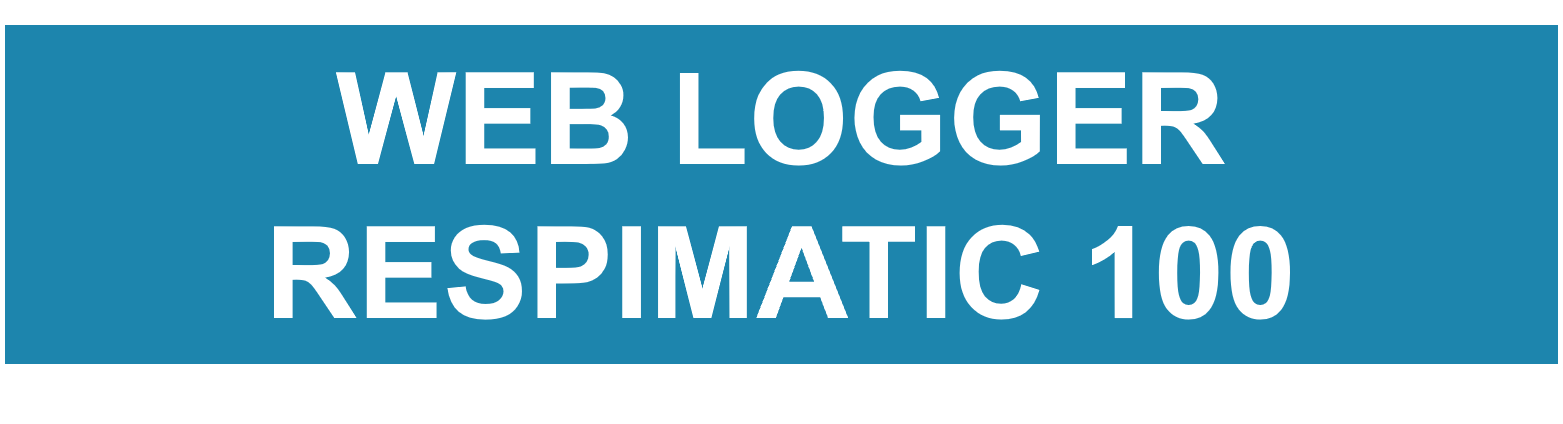
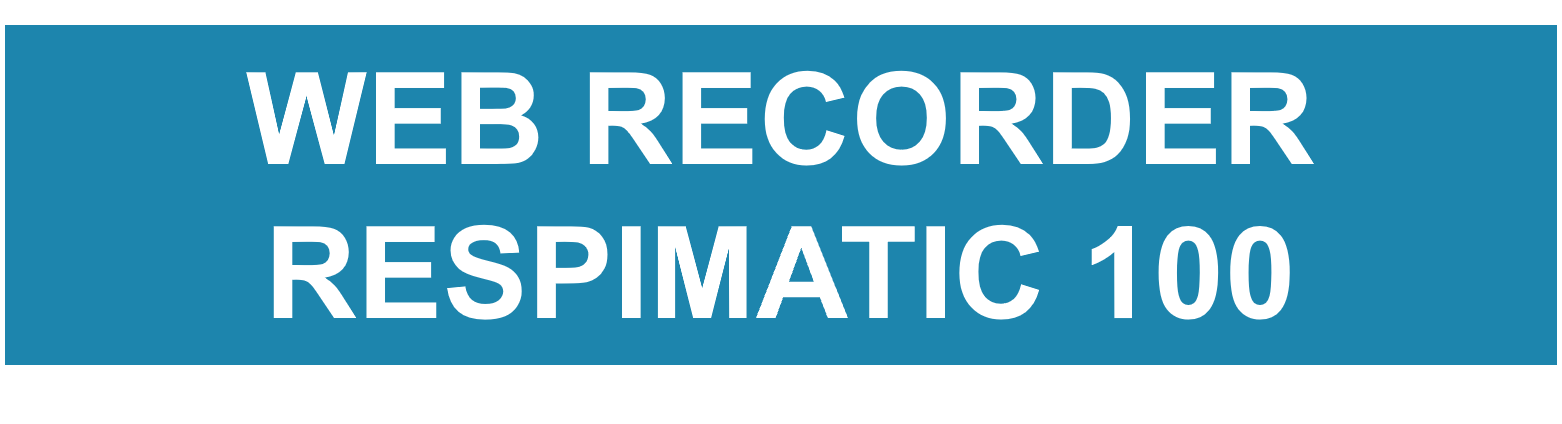
Renamed Logger to Recorder and made it consistent with Analyzer

Changed region(s): [[0.1536, 0.1533, 0.8604, 0.3986], [0.4302, 0.5825, 0.4609, 0.6745]]

diff --git a/logger/respimatic.logger.html b/logger/respimatic.logger.html
@@ -20,12 +20,66 @@
   </head>
   
   <body>
-    <br>
+    <div class="sidebar">
+      
+      <div
+        style="background-color:#0d3e51; color:white; font-size:20px; font-family:verdana;">
+        <center>
+          <p id="logTimeDuration">Session Duration 00:00:00
+          <p id="startTime">Starting Time 00:00:00
+        </center>
+      </div>
+      
+      <center>
+      <button id="btnExit" class="sidebarButton" style="background-color:firebrick" onclick='selectExit()'>STOP & EXIT</button>
+      </center>
+
+
+      <center>
+      <div
+        style="background-color:#0d3e51; color:white; font-size:20px; font-family:verdana;">
+	<br>
+	<br><br>
+	<div id="btnNewSessionDiv">
+	  <br>
+        <button id="btnNewSessionDiv" class="sidebarButton"
+              onclick='createNewDb()'>Start New Session</button>
+	</div>
+
+        <div id="btnStartLogDiv">
+	<br><br>
+	<br><br>
+        <button id="btnStartLog" class="sidebarButton" onclick='startLog()'>Resume
+              Recording</button>
+        </div>
+	  `
+        <div id="btnPauseLogDiv">
+	<br>
+	<br><br>
+        <button id="btnPauseLog" class="sidebarButton" onclick='pauseLog()'>Pause
+              Recording</button>
+        </div>
+
+        <div id="btnDeleteDiv">
+	<br><br>
+	<br><br>
+        <button id="btnDeleteAll"class="sidebarButton" onclick='deleteAllDbs()'>Delete All 
+	   Sessions</button>
+	 <br><br><br><br><br>
+	</div>
+
+      </div>
+      </center>
+      
+    </div>
+    
+    <div class="body-pane">
+    
     <center>
       <img src="img/logger-title-logos.png" alt="Title" width="620"
-        height="150">
+        height="140">
       <h1 id='SysUid'
-        style="background-color:#0d3e51; color:white;font-size:2em; font-family:verdana;">
+        style="background-color:#0d3e51; color:white;font-size:1.5em ; font-family:verdana;">
       </h1>
       <div class="row">
         <div class="column">
@@ -33,23 +87,10 @@
             style="background-color:#0d3e51; color:white;font-size:1.5em; font-family:verdana;">
             No Active Session
           <div
-            style="height:600px; line-height:1em; overflow-y:auto; overflow-x:auto; white-space: nowrap; padding:5px; background-color:#0d3e51; color:white; border:4px #1d85ad; font-family: 'Cousine'">
+            style="height:614px; line-height:1em; overflow-y:auto; overflow-x:auto; white-space: nowrap; padding:5px; background-color:#0d3e51; color:white; border:4px #1d85ad; font-family: 'Cousine'">
             <p id=dweetBox style="font-size:8; text-align: left">
           </div>
           
-          <br>
-          <div id="btnNewSessionDiv">
-            <button id="btnNewSession" class="button"
-              onclick='createNewDb()'>START NEW SESSION</button>
-          </div>
-          <div id="btnStartLogDiv">
-            <button id="btnStartLog" class="button" onclick='startLog()'>RESUME
-              SESSION LOG</button>
-          </div>
-          <div id="btnPauseLogDiv">
-            <button id="btnPauseLog" class="button" onclick='pauseLog()'>PAUSE
-              SESSION LOG</button>
-          </div>
         </div>
         
         <div class="column">
@@ -57,21 +98,17 @@
             style="background-color:#0d3e51; color:white;font-size:1.5em; font-family:verdana;">
             All Saved Sessions
           <div
-            style="height:600px; line-height:1em; overflow-y:auto; overflow-x:auto; white-space: nowrap; padding:5px; background-color:#0d3e51; color:white; border:4px #1d85ad; font-family: 'Cousine'">
+            style="height:614px; line-height:1em; overflow-y:auto; overflow-x:auto; white-space: nowrap; padding:5px; background-color:#0d3e51; color:white; border:4px #1d85ad; font-family: 'Cousine'">
             <br>
             <table id='dbTable' className="dbTableStyle"
               style="font-size:20px; width:100%">
             </table>
           </div>
           
-          <br>
-          <div id="btnDeleteDiv">
-            <button class="button" onclick='deleteAllDbs()'>DELETE ALL SAVED
-              SESSIONS</button>
-          </div>
         </div>
         
       </div>
+    </div>
       
     </center>
   </body>

diff --git a/logger/js/respimatic.logger.js b/logger/js/respimatic.logger.js
@@ -3,6 +3,8 @@ var db;
 var dbName;
 var doLog = false;
 
+var firstDweet = true;
+var startDate = new Date();
 var prevContent = {}; 
 var initialState = true;
 var expectErrorMsg = false;
@@ -13,7 +15,7 @@ var l3 = false;
 var l4 = false;
 
 // check for browser capability
-document.title = respimaticUid + " (LOGGER)" ;
+document.title = respimaticUid + " (RECORDER)" ;
 if (!window.indexedDB) {
     alert("IndexedDB not available in your browser.\nSwitch browsers");
 }
@@ -140,6 +142,8 @@ function deleteAllDbs() {
 }
 
 function initState() {
+  firstDweet = true;
+  startDate = new Date();
   prevContent = {}; 
   initialState = true;
   expectErrorMsg = false;
@@ -158,10 +162,6 @@ function createNewDb() {
   var sessionName = document.getElementById('sessionName');
   arr = parseDbName(dbName);
   sessionName.innerHTML = arr[1] + " [" + arr[2] + "]";
-
-  document.getElementById("btnNewSessionDiv").style.display = "none";
-  document.getElementById("btnStartLogDiv").style.display = "none";
-  document.getElementById("btnPauseLogDiv").style.display = "block";
 }
 
 // ///////////////////////////////////////////////////////
@@ -176,6 +176,19 @@ function displayTweet(d) {
 function processDweet(d) {
   if (!doLog) return ;
 
+  if (firstDweet) {
+    firstDweet = false;
+    startDate = d.created;
+
+    elm = document.getElementById("startTime");
+    elm.innerHTML = "Starting Time " + timeToStr(d.created);
+  } else {
+    curDate = d.created;
+    var diff = curDate - startDate;
+
+    elm = document.getElementById("logTimeDuration");
+    elm.innerHTML = "Session Duration " + msToTime(diff);
+  }
   // We already have the UID
   delete d.thing;
 
@@ -267,37 +280,27 @@ function waitForDweets() {
 
 function startLog() {
   if (doLog) return;
+  var heading = document.getElementById("SysUid");
+  heading.innerHTML = "Recording In-Progress for " + respimaticUid;
   doLog = true;
-
-  document.getElementById("btnNewSessionDiv").style.display = "none";
-  document.getElementById("btnStartLogDiv").style.display = "none";
-  document.getElementById("btnPauseLogDiv").style.display = "block";
 }
 
 function pauseLog() {
   if (!doLog) return;
+  var heading = document.getElementById("SysUid");
+  heading.innerHTML = "Recording Paused for " + respimaticUid;
   doLog = false;
-
-  document.getElementById("btnNewSessionDiv").style.display = "block";
-  document.getElementById("btnStartLogDiv").style.display = "block";
-  document.getElementById("btnPauseLogDiv").style.display = "none";
 }
 
 window.onload = function() {
-  var heading = document.getElementById("SysUid");
-  heading.innerHTML = "LOG for " + respimaticUid;
+  startLog();
   listAllDbs();
-
-  document.getElementById("btnNewSessionDiv").style.display = "block";
-  document.getElementById("btnStartLogDiv").style.display = "none";
-  document.getElementById("btnPauseLogDiv").style.display = "none";
-
   waitForDweets();
 }
 
 function selectExit() {
   if (doLog) {
-    if (!confirm("Logging will STOP")) {
+    if (!confirm("Recording will STOP")) {
       return;
     }
   }

diff --git a/analyzer/respimatic.analyzer.html b/analyzer/respimatic.analyzer.html
@@ -105,16 +105,16 @@
         <img src="img/analyzer-title-logos.png" alt="Title" width="620"
           height="140">
         <h1 id='SysUid'
-          style="background-color:#0d3e51; color:white;font-size:1.2em; font-family:verdana;">
+          style="background-color:#0d3e51; color:white;font-size:1.5em; font-family:verdana;">
         </h1>
       </center>
       
       <center>
         <div id="selectorDiv" display="none">
-          <h2 style="color:#0d3e51; font-size:1.2em; font-family:verdana;">
+          <h2 style="color:#0d3e51; font-size:2emm; font-family:verdana;">
             Select Session for Analysis</h2>
           <div
-            style="height:400px; line-height:1em; overflow-y:auto; overflow-x:auto; white-space: nowrap; padding:5px; background-color:#0d3e51; color:white; border:4px #1d85ad; font-family: 'Cousine'">
+            style="height:600px; line-height:1em; overflow-y:auto; overflow-x:auto; white-space: nowrap; padding:5px; background-color:#0d3e51; color:white; border:4px #1d85ad; font-family: 'Cousine'">
             <br>
             <table id='dbTable' className="dbTableStyle"
               style="font-size:20px; width:100%">

diff --git a/index.html b/index.html
@@ -72,11 +72,11 @@
          </datalist>
 
 	 <br><br>
-         <button class="button" onclick='launchDashboard()'>DASHBOARD</button>
+         <button class="button" onclick='launchDashboard()'>Dashboard</button>
 	 <br>
-         <button class="button" onclick='launchLogger()'>LOGGER</button>
+         <button class="button" onclick='launchLogger()'>Recorder</button>
 	 <br>
-         <button class="button" onclick='launchAnalyzer()'>ANALYZER</button>
+         <button class="button" onclick='launchAnalyzer()'>Analyzer</button>
        </div>
        <br><br>
       <img src="img/Logos.png" alt="Title" width="350" height="60">

diff --git a/js/common.js b/js/common.js
@@ -87,6 +87,19 @@ function dateToStr(d) {
   return dtStr;
 }
 
+function timeToStr(d) {
+  if (!d) return null;
+  date = new Date(d);
+
+  var hrs = String(date. getHours()). padStart(2, '0');
+  var min = String(date. getMinutes()). padStart(2, '0');
+  var sec = String(date. getSeconds()). padStart(2, '0');
+
+  tmStr = hrs + ":" + min + ":" + sec;
+
+  return tmStr;
+}
+
 function msToTime(milliseconds) {
   var d = convertMS(milliseconds);
 

diff --git a/css/common.css b/css/common.css
@@ -1,6 +1,6 @@
 .sidebar {
   height: 100%;
-  width: 225px;
+  width: 230px;
   position: absolute;
   left: 0;
   top: 0;
@@ -16,7 +16,7 @@
 }
 
 .body-pane {
-  margin-left: 220px;
+  margin-left: 230px;
   font-size: 20px;
   font-family: verdana;
 }
